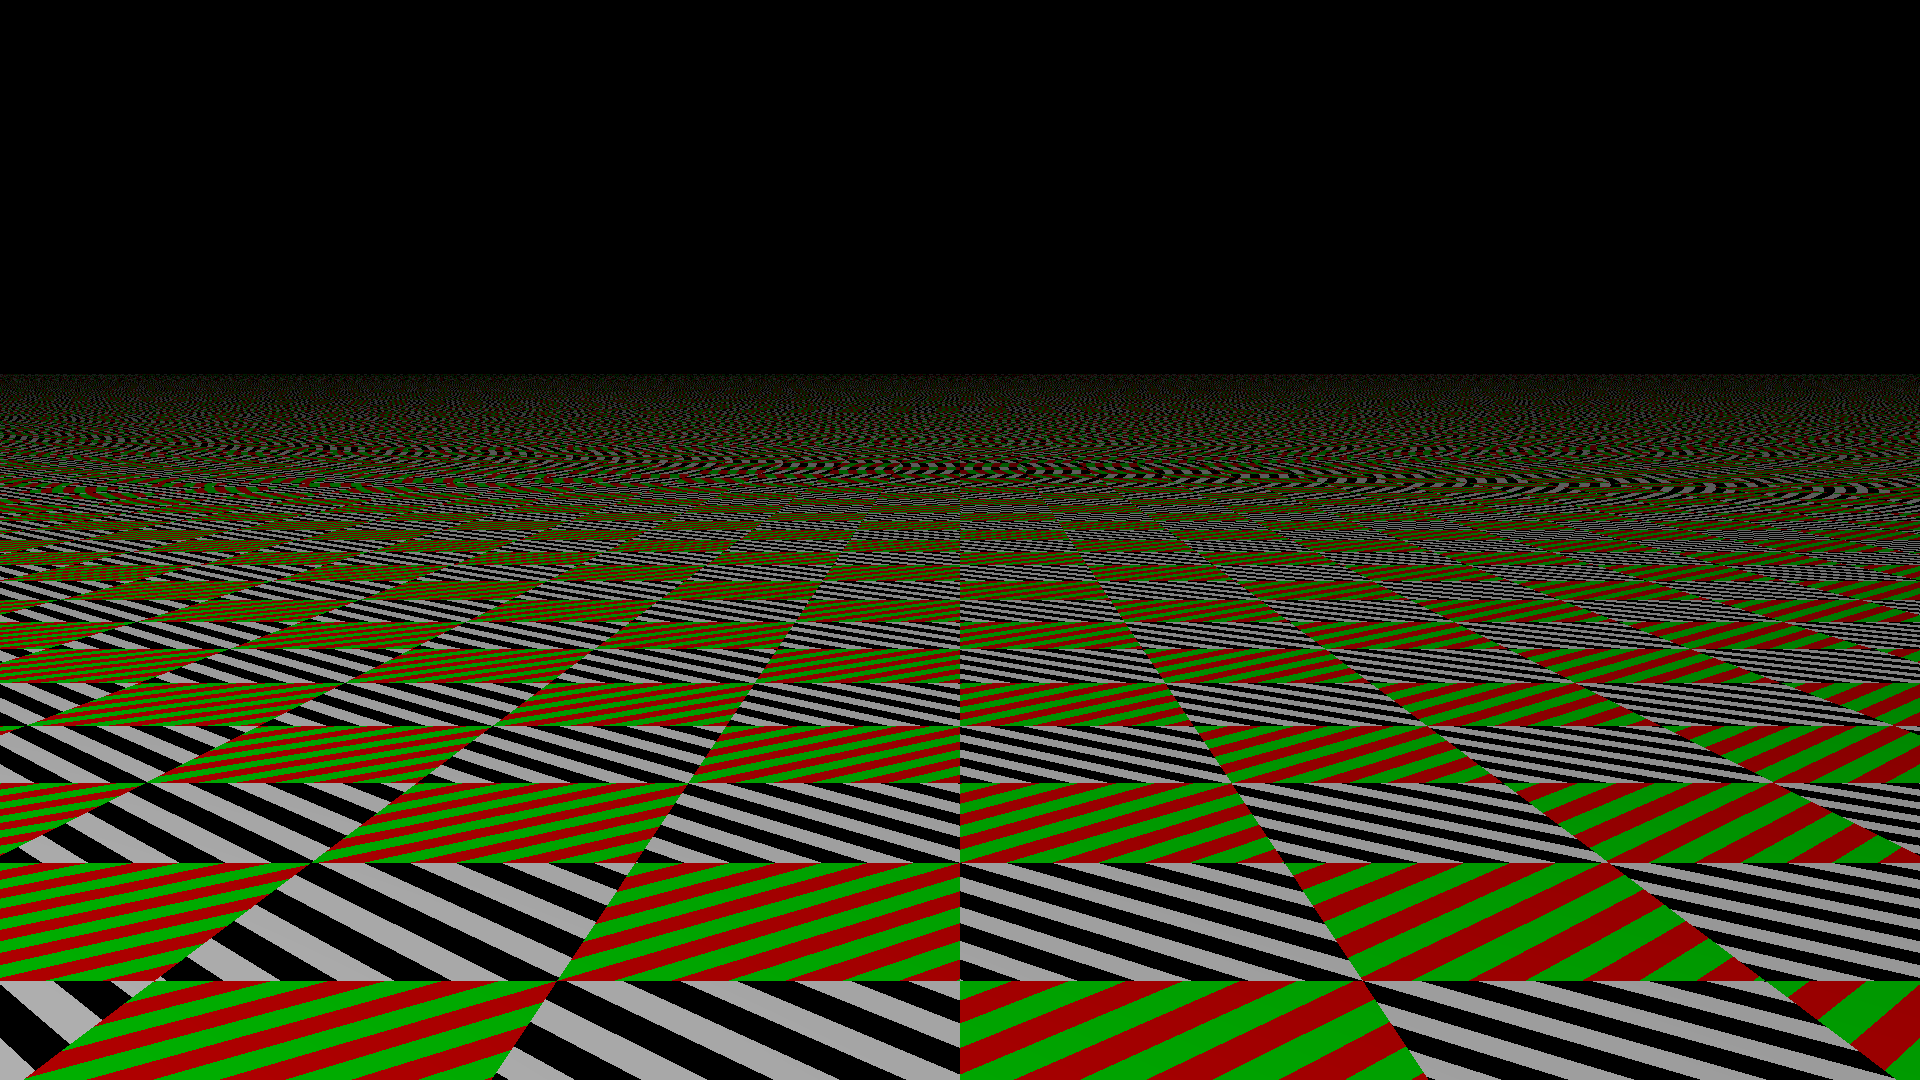
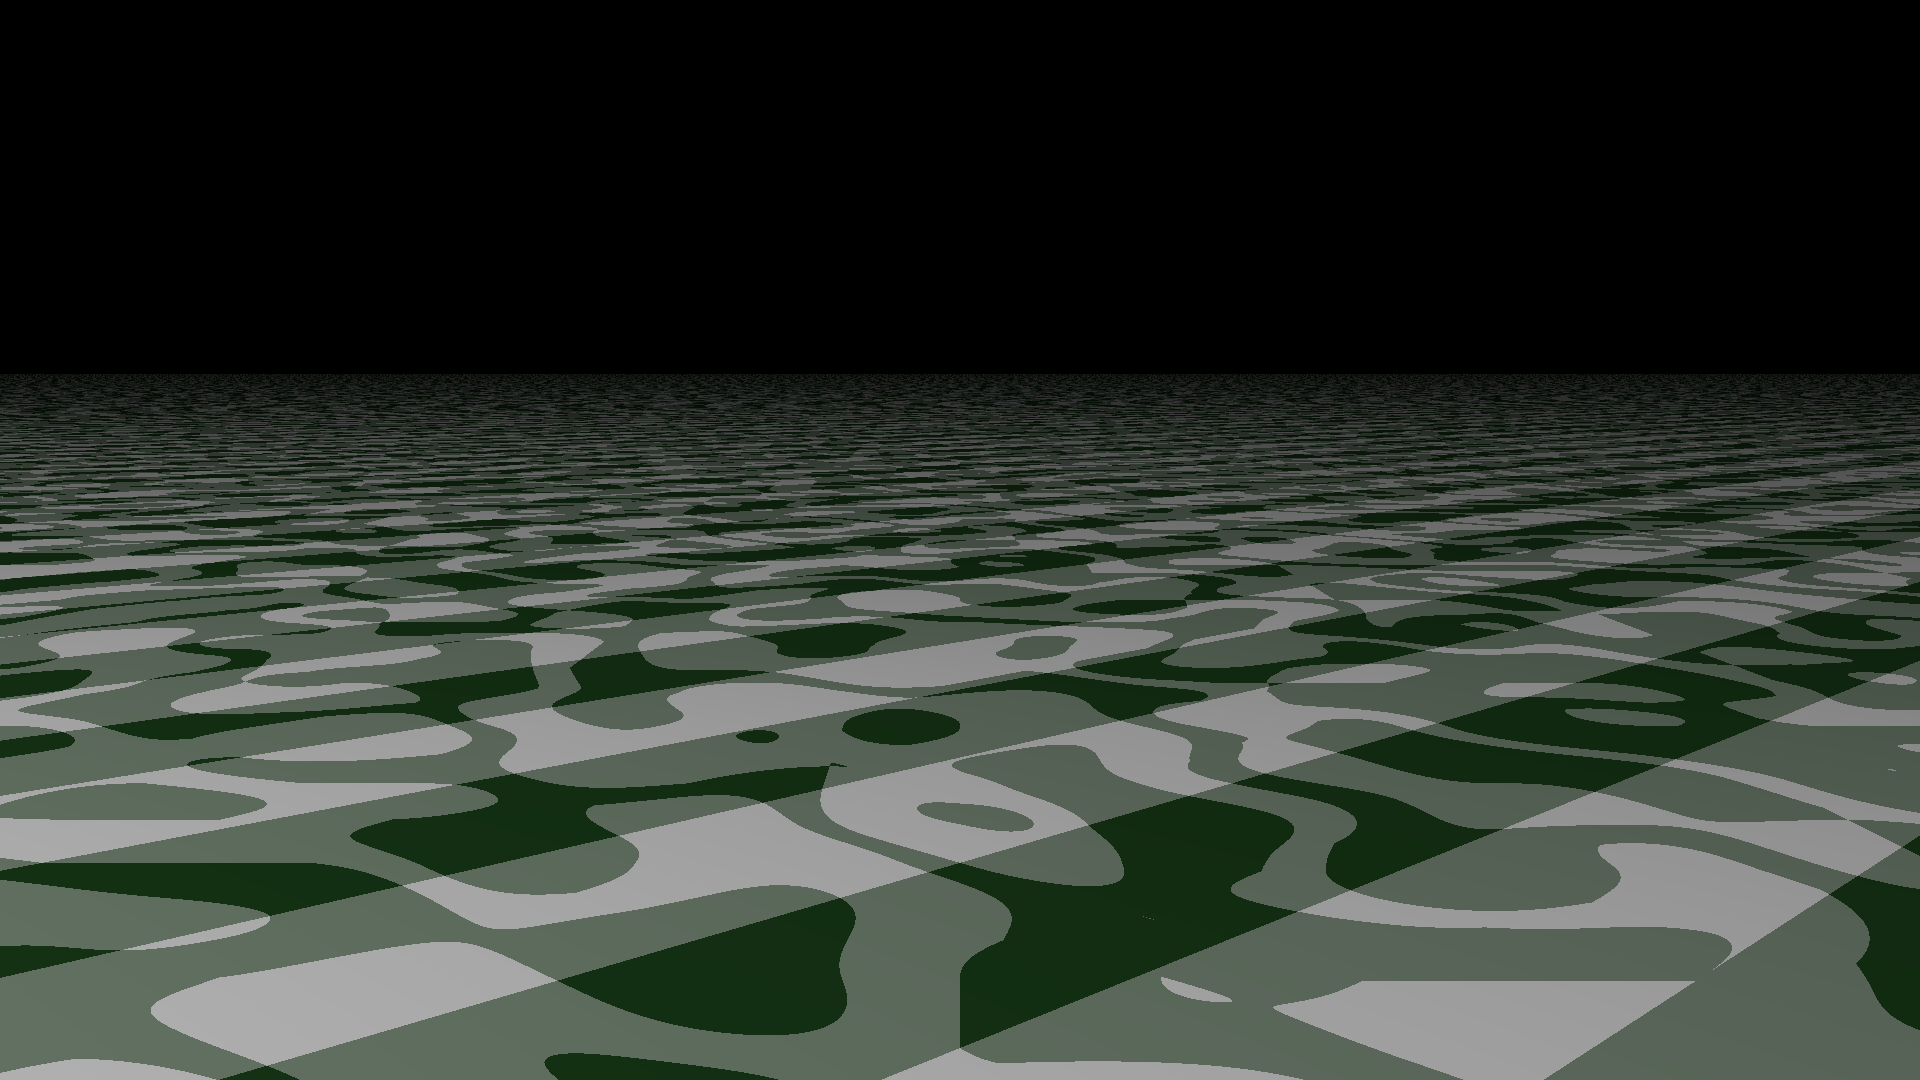
failed attempt to apply perlin noise
it doesn't apply for 45-deg rotated patterns

diff --git a/perlin_noise.cc b/perlin_noise.cc
@@ -1,0 +1,137 @@
+#include "perlin_noise.hh"
+
+#include <cmath>
+
+// Improved Perlin noise (2002), based on https://cs.nyu.edu/~perlin/noise/
+
+namespace {
+
+constexpr int p[] = {
+    151, 160, 137, 91,  90,  15,  131, 13,  201, 95,  96,  53,  194, 233, 7,   225, 140, 36,  103,
+    30,  69,  142, 8,   99,  37,  240, 21,  10,  23,  190, 6,   148, 247, 120, 234, 75,  0,   26,
+    197, 62,  94,  252, 219, 203, 117, 35,  11,  32,  57,  177, 33,  88,  237, 149, 56,  87,  174,
+    20,  125, 136, 171, 168, 68,  175, 74,  165, 71,  134, 139, 48,  27,  166, 77,  146, 158, 231,
+    83,  111, 229, 122, 60,  211, 133, 230, 220, 105, 92,  41,  55,  46,  245, 40,  244, 102, 143,
+    54,  65,  25,  63,  161, 1,   216, 80,  73,  209, 76,  132, 187, 208, 89,  18,  169, 200, 196,
+    135, 130, 116, 188, 159, 86,  164, 100, 109, 198, 173, 186, 3,   64,  52,  217, 226, 250, 124,
+    123, 5,   202, 38,  147, 118, 126, 255, 82,  85,  212, 207, 206, 59,  227, 47,  16,  58,  17,
+    182, 189, 28,  42,  223, 183, 170, 213, 119, 248, 152, 2,   44,  154, 163, 70,  221, 153, 101,
+    155, 167, 43,  172, 9,   129, 22,  39,  253, 19,  98,  108, 110, 79,  113, 224, 232, 178, 185,
+    112, 104, 218, 246, 97,  228, 251, 34,  242, 193, 238, 210, 144, 12,  191, 179, 162, 241, 81,
+    51,  145, 235, 249, 14,  239, 107, 49,  192, 214, 31,  181, 199, 106, 157, 184, 84,  204, 176,
+    115, 121, 50,  45,  127, 4,   150, 254, 138, 236, 205, 93,  222, 114, 67,  29,  24,  72,  243,
+    141, 128, 195, 78,  66,  215, 61,  156, 180, // and again
+    151, 160, 137, 91,  90,  15,  131, 13,  201, 95,  96,  53,  194, 233, 7,   225, 140, 36,  103,
+    30,  69,  142, 8,   99,  37,  240, 21,  10,  23,  190, 6,   148, 247, 120, 234, 75,  0,   26,
+    197, 62,  94,  252, 219, 203, 117, 35,  11,  32,  57,  177, 33,  88,  237, 149, 56,  87,  174,
+    20,  125, 136, 171, 168, 68,  175, 74,  165, 71,  134, 139, 48,  27,  166, 77,  146, 158, 231,
+    83,  111, 229, 122, 60,  211, 133, 230, 220, 105, 92,  41,  55,  46,  245, 40,  244, 102, 143,
+    54,  65,  25,  63,  161, 1,   216, 80,  73,  209, 76,  132, 187, 208, 89,  18,  169, 200, 196,
+    135, 130, 116, 188, 159, 86,  164, 100, 109, 198, 173, 186, 3,   64,  52,  217, 226, 250, 124,
+    123, 5,   202, 38,  147, 118, 126, 255, 82,  85,  212, 207, 206, 59,  227, 47,  16,  58,  17,
+    182, 189, 28,  42,  223, 183, 170, 213, 119, 248, 152, 2,   44,  154, 163, 70,  221, 153, 101,
+    155, 167, 43,  172, 9,   129, 22,  39,  253, 19,  98,  108, 110, 79,  113, 224, 232, 178, 185,
+    112, 104, 218, 246, 97,  228, 251, 34,  242, 193, 238, 210, 144, 12,  191, 179, 162, 241, 81,
+    51,  145, 235, 249, 14,  239, 107, 49,  192, 214, 31,  181, 199, 106, 157, 184, 84,  204, 176,
+    115, 121, 50,  45,  127, 4,   150, 254, 138, 236, 205, 93,  222, 114, 67,  29,  24,  72,  243,
+    141, 128, 195, 78,  66,  215, 61,  156, 180};
+
+float fade(float t) { return t * t * t * (t * (t * 6 - 15) + 10); }
+
+// https://riven8192.blogspot.com/2010/08/calculate-perlinnoise-twice-as-fast.html
+float grad(int hash, float x, float y, float z) {
+    switch (hash & 0xF) {
+    case 0x0:
+        return x + y;
+    case 0x1:
+        return -x + y;
+    case 0x2:
+        return x - y;
+    case 0x3:
+        return -x - y;
+    case 0x4:
+        return x + z;
+    case 0x5:
+        return -x + z;
+    case 0x6:
+        return x - z;
+    case 0x7:
+        return -x - z;
+    case 0x8:
+        return y + z;
+    case 0x9:
+        return -y + z;
+    case 0xA:
+        return y - z;
+    case 0xB:
+        return -y - z;
+    case 0xC:
+        return y + x;
+    case 0xD:
+        return -y + z;
+    case 0xE:
+        return y - x;
+    case 0xF:
+        return -y - z;
+    default:
+        return 0; // never happens
+    }
+}
+
+} // namespace
+
+namespace wt {
+
+float perlin_noise(float x, float y, float z) noexcept {
+    float const floor_x = std::floor(x);
+    float const floor_y = std::floor(y);
+    float const floor_z = std::floor(z);
+
+    int const X = static_cast<int>(floor_x) & 255;
+    int const Y = static_cast<int>(floor_y) & 255;
+    int const Z = static_cast<int>(floor_z) & 255;
+
+    x -= floor_x;
+    y -= floor_y;
+    z -= floor_z;
+
+    float const u = fade(x);
+    float const v = fade(y);
+    float const w = fade(z);
+
+    int const A = p[X] + Y;
+    int const AA = p[A] + Z;
+    int const AB = p[A + 1] + Z;
+    int const B = p[X + 1] + Y;
+    int const BA = p[B] + Z;
+    int const BB = p[B + 1] + Z;
+
+    return std::lerp(
+        std::lerp(std::lerp(grad(p[AA], x, y, z), grad(p[BA], x - 1, y, z), u),
+                  std::lerp(grad(p[AB], x, y - 1, z), grad(p[BB], x - 1, y - 1, z), u), v),
+        std::lerp(
+            std::lerp(grad(p[AA + 1], x, y, z - 1), grad(p[BA + 1], x - 1, y, z - 1), u),
+            std::lerp(grad(p[AB + 1], x, y - 1, z - 1), grad(p[BB + 1], x - 1, y - 1, z - 1), u),
+            v),
+        w);
+}
+
+// https://adrianb.io/2014/08/09/perlinnoise.html
+float octave_perlin_noise(float x, float y, float z, int octaves, float persistence) noexcept {
+    float total = 0;
+    float frequency = 1;
+    float amplitude = 1;
+    float maxValue = 0;
+    for (int i = 0; i < octaves; i++) {
+        total += perlin_noise(x * frequency, y * frequency, z * frequency) * amplitude;
+
+        maxValue += amplitude;
+
+        amplitude *= persistence;
+        frequency *= 2;
+    }
+
+    return total / maxValue;
+}
+
+} // namespace wt

diff --git a/scene_8.cc b/scene_8.cc
@@ -1,0 +1,83 @@
+#include "blended_pattern.hh"
+#include "checker2d_pattern.hh"
+#include "cli.hh"
+#include "mat3.hh"
+#include "perturb_pattern.hh"
+#include "plane.hh"
+#include "scene.hh"
+#include "solid_pattern.hh"
+#include "stripe_pattern.hh"
+#include "util.hh"
+
+#include <numbers>
+#include <vector>
+
+using namespace std::numbers;
+
+namespace wt {
+
+scene scene_8(cli const& cli) noexcept {
+    //    plane floor{
+    //        {},
+    //        material{.pattern = perturb_pattern{
+    //                     blended_pattern{
+    //                         stripe_pattern{solid_pattern{color{0x1D481D}}, solid_pattern{{1, 1,
+    //                         1}}}, stripe_pattern{solid_pattern{color{0x1D481D}},
+    //                         solid_pattern{{1, 1, 1}},
+    //                                        rotation<Axis::Y>(deg_to_rad(90))},
+    //                         rotation<Axis::Y>(deg_to_rad(45))},
+    //                     1}}};
+
+    //    plane floor{
+    //        {},
+    //        material{.pattern =
+    //
+    //                         checker2d_pattern{
+    //                         perturb_pattern{stripe_pattern{solid_pattern{color{0,0,0}},
+    //                         solid_pattern{color{1,1,1}},
+    //                                        rotation<Axis::Y>(deg_to_rad(45)) * scale(.5, .5,
+    //                                        .5)}},
+    //                         stripe_pattern{solid_pattern{color{0,1,0}},
+    //                         solid_pattern{color{0,0,1}},
+    //                                        rotation<Axis::Y>(deg_to_rad(-45)) * scale(.5, .5,
+    //                                        .5)}}
+    //        }};
+
+    // FIXME: for some reason perlin doesn't apply to patterns rotated 45 degrees, idk why!
+    plane floor{{},
+                material{.pattern = perturb_pattern{
+                             stripe_pattern{solid_pattern{0, 0, 0}, solid_pattern{1, 1, 1},
+                                            rotation<Axis::Y>(deg_to_rad(45)) * scale(.5, .5, .5)},
+                             1}}};
+
+    //    plane floor{
+    //        {},
+    //        material{.pattern = perturb_pattern{
+    //                     checker2d_pattern{solid_pattern{1, 1, 1}, solid_pattern{0, 0, 0}}, .5}}};
+
+    //    plane floor{
+    //        {},
+    //        material{
+    //            .pattern = perturb_pattern{
+    //                checker2d_pattern{
+    //                    stripe_pattern{solid_pattern{color{0x77283B}},
+    //                    solid_pattern{color{0x964B5E}},
+    //                                   rotation<Axis::Y>(deg_to_rad(45)) * scale(.1, .1, .1)},
+    //                    stripe_pattern{solid_pattern{color{0x656565}},
+    //                    solid_pattern{color{0x3C3C3C}},
+    //                                   rotation<Axis::Y>(deg_to_rad(-45)) * scale(.1, .1, .1)}},
+    //                .5}}};
+
+    std::vector<shape> shapes;
+    for (auto& plane : {floor}) {
+        shapes.emplace_back(plane);
+    }
+
+    world world{std::move(shapes), pnt_light{pnt3{-10, 10, -10}, color{1, 1, 1}}};
+    look_at look_at;
+    camera camera{cli.tex_width, cli.tex_height, pi_v<float> / 3, look_at};
+
+    return {std::move(world), std::move(camera), std::move(look_at)};
+}
+
+} // namespace wt

diff --git a/perturb_pattern_operations.cc b/perturb_pattern_operations.cc
@@ -1,0 +1,30 @@
+#include "perturb_pattern_operations.hh"
+
+#include "color.hh"
+#include "pattern_operations.hh"
+#include "perlin_noise.hh"
+#include "perturb_pattern.hh"
+#include "pnt3.hh"
+#include "shape.hh"
+#include "stub_shape.hh"
+#include "tform4.hh"
+
+#include <spdlog/spdlog.h>
+
+#include <cmath> // floor
+
+namespace wt {
+
+tform4& inv_tform(perturb_pattern& pattern) noexcept { return pattern.inv_tform; }
+tform4 const& inv_tform(perturb_pattern const& pattern) noexcept { return pattern.inv_tform; }
+
+color pattern_at(perturb_pattern const& pattern, pnt3 const& world_point) noexcept {
+    shape stub{stub_shape{}};
+    float p1 = perlin_noise(world_point.x, world_point.y, world_point.z);
+
+    return pattern_at(pattern.pattern, stub,
+                      {world_point.x + pattern.scale * p1, world_point.y + pattern.scale * p1,
+                       world_point.z + pattern.scale * p1});
+}
+
+} // namespace wt

diff --git a/perturb_pattern.cc b/perturb_pattern.cc
@@ -1,0 +1,14 @@
+#include "perturb_pattern.hh"
+
+#include <utility> // move
+
+namespace wt {
+
+perturb_pattern::perturb_pattern(class pattern pattern, float scale) noexcept
+    : pattern{std::move(pattern)}, scale{scale}, tform{}, inv_tform{} {}
+
+perturb_pattern::perturb_pattern(class pattern pattern, tform4 tform, float scale) noexcept
+    : pattern{std::move(pattern)}, scale{scale}, tform{std::move(tform)}, inv_tform{inverse(
+                                                                              this->tform)} {}
+
+} // namespace wt

diff --git a/solid_pattern.cc b/solid_pattern.cc
@@ -10,4 +10,9 @@ solid_pattern::solid_pattern(struct color color) noexcept
 solid_pattern::solid_pattern(struct color color, tform4 tform) noexcept
     : color{std::move(color)}, tform{std::move(tform)}, inv_tform{inverse(this->tform)} {}
 
+solid_pattern::solid_pattern(float r, float g, float b) noexcept : solid_pattern{{r, g, b}} {}
+
+solid_pattern::solid_pattern(float r, float g, float b, tform4 tform) noexcept
+    : solid_pattern{{r, g, b}, std::move(tform)} {}
+
 } // namespace wt

diff --git a/main.cc b/main.cc
@@ -46,8 +46,7 @@ int main(int argc, char** argv) {
     CLI11_PARSE(app, argc, argv);
 
     std::vector<std::function<scene(struct cli const&)>> scenes{
-        SCENE(0), SCENE(1), SCENE(2), SCENE(3), SCENE(4), SCENE(5), SCENE(6), SCENE(7),
-    };
+        SCENE(0), SCENE(1), SCENE(2), SCENE(3), SCENE(4), SCENE(5), SCENE(6), SCENE(7), SCENE(8)};
     scene scene;
     try {
         scene = scenes.at(cli.scene)(cli);
